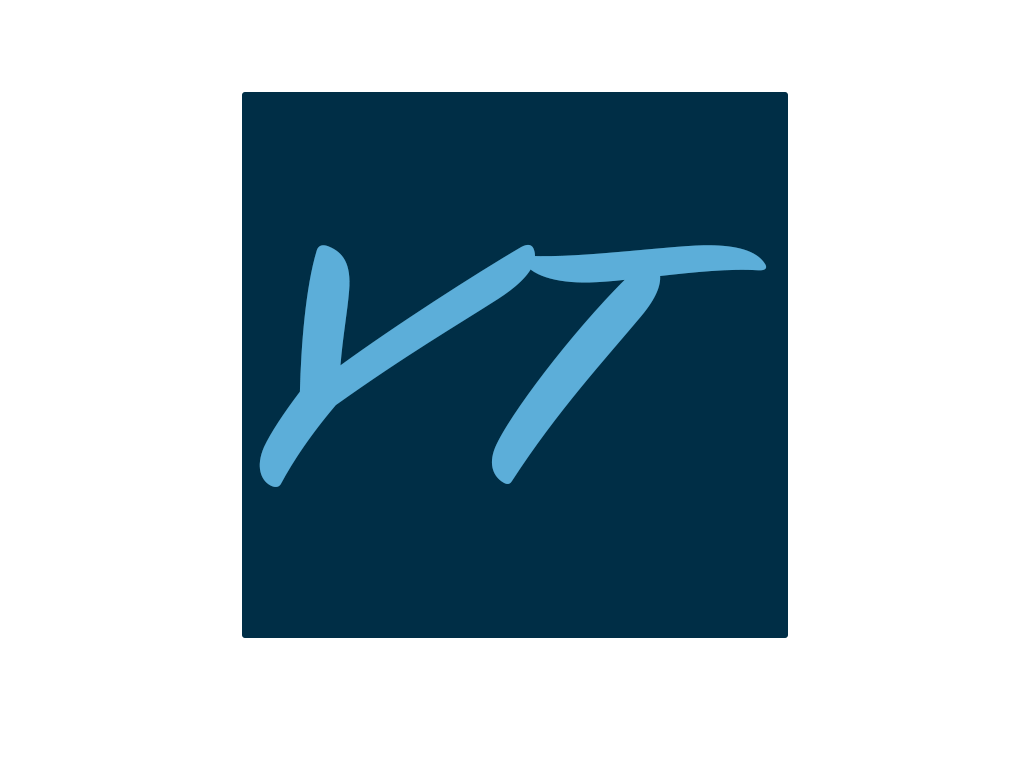
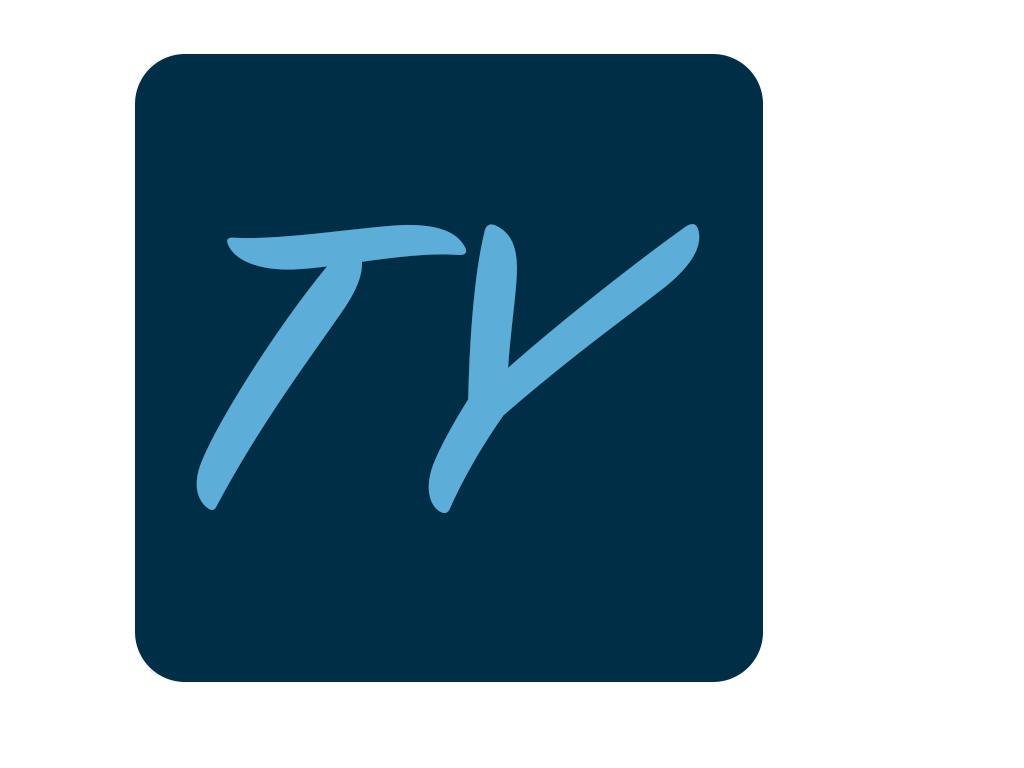
change sumbol and update animation

Changed region(s): [[0.125, 0.0625, 0.7812, 0.9062]]

diff --git a/index.html b/index.html
@@ -2,11 +2,12 @@
 <html>
 <head>
   <link rel="stylesheet" href="./bootstrap/css/bootstrap.css">
-  <link rel="stylesheet" type="text/css" href="./css/myStylesheet.css">
+  <link rel="stylesheet" type="text/css" href="./css/main.css">
   <link rel="stylesheet" href="./css/object.css">
   <link rel="stylesheet" href="./css/keySkills.css">
   <link rel="stylesheet" href="./css/contactInfo.css">
   <link rel="stylesheet" href="./css/personality.css">
+  <link href="https://gitcdn.github.io/bootstrap-toggle/2.2.0/css/bootstrap-toggle.min.css" rel="stylesheet">
   <meta name="viewport" content="width=device-width, initial-scale=1.0">
 </head>
 
@@ -14,11 +15,6 @@
 <body>
   <div class="container-fluid">
     <div id="sky">
-      <!-- <div class="baloon"><div class="line" id="bl1"></div></div> -->
-      <!-- <div class="baloon"><div class="line"></div></div>
-      <div class="baloon"><div class="line"></div></div>
-      <div class="baloon"><div class="line"></div></div>
-      <div class="baloon"><div class="line"></div></div> -->
       <div class="top-nav">
         <ul class="navList">
             <li><a href="./index.html"><img id="title" src="./image/title.png"></a></li>
@@ -29,7 +25,6 @@
             <!-- <li><a href="#proj">Projects</a></li> -->
             <!-- <li><a href="#cont">Contact</a></li> -->
             <li><a id="resume" href="./file/resume.pdf" target="_blank" data-toggle="modal" data-target="#myModal">Resume</a></li>
-            <!-- <li><a id="resume" href="#res" data-toggle="modal" data-target="#myModal">Cover Letter</a></li> -->
         </ul>
       </div>
       <div id ="mainBlock">
@@ -40,6 +35,7 @@
           <p id="state">(Drawing:CSS, Animation: Javascript)</p>
         </div>
       </div>
+      <!-- <div id="dnToggle"><input id="myToggle" type="checkbox" checked data-toggle="toggle" data-style="ios" data-on="Day" data-off="Night"></div> -->
       <div id="sun"></div>
       <div id="moon"></div>
       <div id ="houseGraphic">
@@ -105,9 +101,7 @@
       <div class="row">
         <h1 id="keyTitle">Key Skills</h1>
         <br>
-        <!-- <div id="insWrapper"> -->
           <p id="instruction">Hover & Click Clouds</p>
-        <!-- </div> -->
       </div>
       <div class="row" id="row1">
         <div class="col-md-4 heightSetting">
@@ -212,10 +206,10 @@
     </div>
 
   </div>
-  <!-- <script src="/Users/han/Documents/Work/profileWebV2/greensockjs/src/uncompressed/plugins/CSSRulePlugin.js"></script> -->
-  <!-- <script src="/Users/han/Documents/Work/profileWebV2/greensockjs/src/uncompressed/plugins/CSSPlugin.js"></script> -->
   <script src="http://cdnjs.cloudflare.com/ajax/libs/gsap/1.17.0/TweenMax.min.js"></script>
   <script src="https://ajax.googleapis.com/ajax/libs/jquery/2.1.3/jquery.min.js"></script>
+  <!-- <script src="https://gitcdn.github.io/bootstrap-toggle/2.2.0/js/bootstrap-toggle.min.js"></script> -->
+  <script src="./bootstrap/js/bootstrap.min.js"></script>
   <script src="./js/object.js"></script>
   <script src='./js/main.js'></script>
 

diff --git a/js/object.js b/js/object.js
@@ -1,4 +1,11 @@
+(function($) {
+   $('#myToggle').change(function() {
+    console.log($(this).prop('checked'));
+   })
+})(jQuery);
+
 // ----- sharkFin movining -----
+
 var toLeftMove = document.getElementById("toLeftMove");
 var toRightMove = document.getElementById("toRightMove");
 var battleShip = document.getElementById("battleShip");
@@ -9,9 +16,6 @@ sharkTween.add(TweenLite.to(toRightMove, 10, {left:"100%"}));
 
 
 // ----- cloud Hovering and Clicking-------
-// var hoverCloud =  document.getElementsByClassName("hoverCloud");
-// console.log(hoverCloud);
-
 $( ".hoverCloud" )
   .mouseover(function() {
     var hcTween = new TimelineMax({repeat:1});
@@ -34,8 +38,6 @@ $( ".hoverCloud" ).click(function() {
 var ins = document.getElementById("instruction");
 var insTween = new TimelineMax({repeat:-1});
 insTween.add(TweenMax.to(ins,1.5,{scale:0.6,repeat:1,yoyo:true}));
-// insTween.add(TweenLite.to(ins,2,{scale:1.5}));
-// insTween.add(TweenLite.to(ins,2,{font-size:18}));
 
 // ----- instruction text ------
 var sep = document.getElementById("seperate");
@@ -67,7 +69,7 @@ function myRandom(){
   return 100*Math.random();
 }
 var i = 0;
-while(i<110){
+while(i<160){
 
   createStar(i);
   i+=1;
@@ -75,17 +77,9 @@ while(i<110){
 
 // ----- house movining -----
 var house = document.getElementById("houseGraphic");
-// var houseTween = new TimelineMax({repeat:-1});
-// houseTween.add(house,10,{right:1000})
-// var photo = document.getElementById("photo");
 var houseTween = TweenMax.to(house, 15, {left:"80%",bottom:200});
 houseTween.repeat(-1);
 
-// ----- star twinkling -----
-
-// var starTween = new TimelineMax({repeat:-1});
-// starTween.add(TweenMax.to(starTest,1,{opacity:1,delay:0,repeat:1,yoyo:true}));
-// starTween.add(TweenMax.to(starTest,1,{opacity:0,delay:1}));
 
 
 // ----- Sky dayNight with star visibility -----
@@ -106,6 +100,9 @@ skyTween.to(sky,4,{backgroundColor:"#002E46",delay:4}, "skyChange")
 .to(moon,4,{xPercent:"400%"}, "skyChange+=12")
 .to(starTest,2,{backgroundColor:"#5CAED9"} ,"skyChange+=13");
 
+
+
+/*
 
 // ----- floating cloud moving -----
 var fc1 = document.getElementById("fc1");
@@ -128,3 +125,6 @@ var bfc = document.getElementsByClassName("boFlIl");
 var bfcTween = new TimelineMax({repeat:-1});
 bfcTween.add(TweenLite.to(bfc,2,{xPercent:"50%"}));
 bfcTween.add(TweenLite.to(bfc,2,{xPercent:0}));
+
+
+*/

diff --git a/css/object.css b/css/object.css
@@ -39,10 +39,6 @@ div{
   background-color:white;
   position:absolute;
   z-index:7;
-  /*animation-name: cloudDayNight;
-  animation-duration: 16s;
-  animation-iteration-count: 999;*/
-  /*opacity:0.8;*/
 }
 
 #coverBottom{
@@ -52,9 +48,6 @@ div{
   background-color:white;
   position:absolute;
   z-index:10;
-  animation-name: cloudDayNight;
-  animation-duration: 16s;
-  animation-iteration-count: 999;
 }
 
 /*--------------- sky animation ---------------*/
@@ -76,9 +69,6 @@ div{
   border-radius:50px;
   position:relative;
   z-index:7;
-  animation-name: cloudDayNight;
-  animation-duration: 16s;
-  animation-iteration-count: 999;
 }
 
 .cloud::before, .cloud::after{
@@ -98,14 +88,6 @@ div{
    -webkit-transform: rotate(-60deg);
    -moz-transform: rotate(60deg);
    transform: rotate(-60deg);
-   -webkit-animation-name: cloudDayNight;
-   -webkit-animation-duration: 16s;
-   -webkit-animation-iteration-count: 999;
-   animation-name: cloudDayNight;
-   animation-duration: 16s;
-   animation-iteration-count: 999;
-
-
 }
 
 .cloud::after{
@@ -118,12 +100,6 @@ div{
   -webkit-transform: rotate(60deg);
   -moz-transform: rotate(60deg);
   transform: rotate(60deg);
-  -webkit-animation-name: cloudDayNight;
-  -webkit-animation-duration: 16s;
-  -webkit-animation-iteration-count: 999;
-  animation-name: cloudDayNight;
-  animation-duration: 16s;
-  animation-iteration-count: 999;
 }
 
 
@@ -242,11 +218,13 @@ div{
   border-radius: 100%;
   position:absolute;
   right:16%;
-  /*display:none;*/
   opacity:0;
+  background-color:none;
   top:10%;
   box-shadow:15px 0px 0 9px #F6EF3D;
+   -moz-box-shadow:15px 0px 0 9px #F6EF3D;
   transform:rotate(25deg);
+  -moz-transform:rotate(25deg);
 }
 
 

diff --git a/css/main.css b/css/main.css
@@ -4,7 +4,7 @@ body{
 
 .top-nav {
   position: absolute;
-  left: 10%;
+  left: 11%;
   top: 30px;
   font-size: 12px;
   font-weight: 100;
@@ -52,8 +52,21 @@ body{
 
 
 #title{
-  height:30px;
-  width:30px;
+  height:25px;
+  width:35px;
   margin:0;
   padding:0;
+  /*border-radius:20px;*/
 }
+
+
+/*
+.toggle.ios, .toggle-on.ios, .toggle-off.ios { border-radius: 10px; }
+.toggle.ios .toggle-handle { border-radius: 10px; }
+
+#dnToggle{
+  position:absolute;
+  left:11%;
+  top:14%;
+}
+*/
